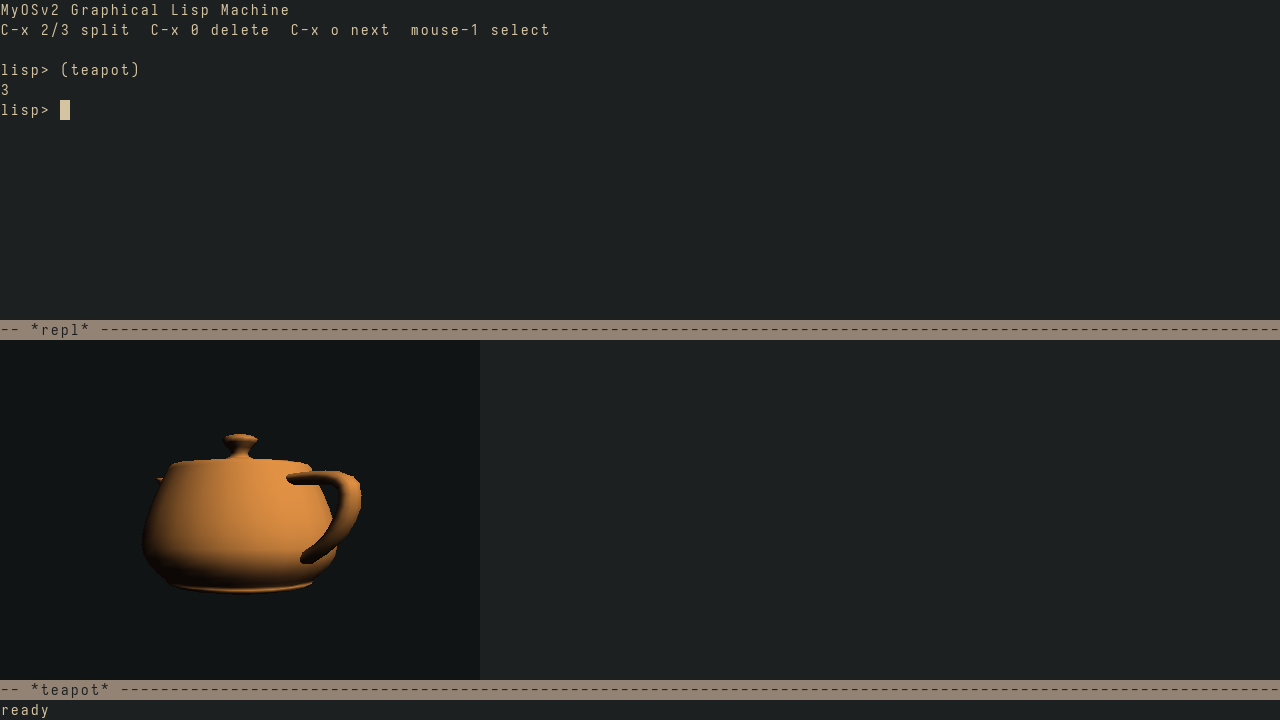
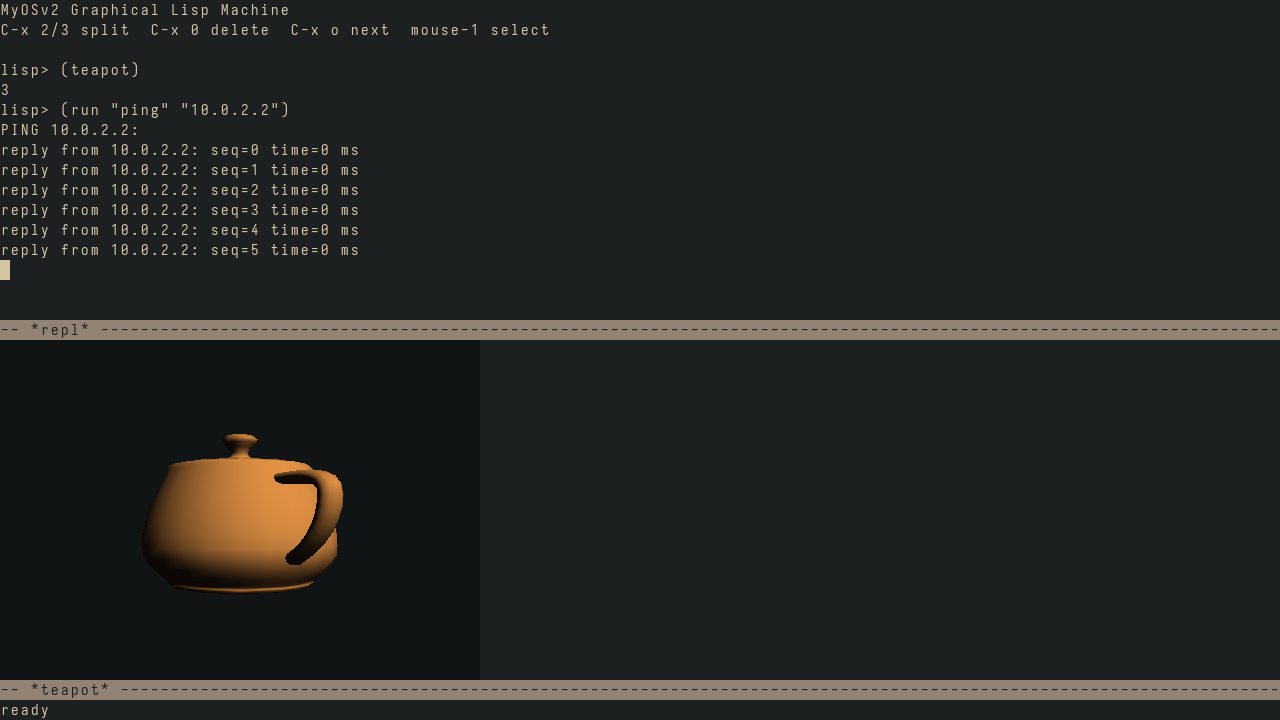
docs(readme): teapot screenshot showing ping streaming while the pot spins
The image now demonstrates the whole Phase 26 story in one frame: TinyGL
rendering at 20fps in a surface buffer WHILE a forked ping streams its
replies into the REPL window above -- the multitasking the stream-thunk
redisplay fix and process groups bought.

Changed region(s): [[0.0, 0.1222, 0.2812, 0.3972], [0.2188, 0.6417, 0.2812, 0.7944]]

diff --git a/README.md b/README.md
@@ -180,7 +180,7 @@ photograph itself: `(screenshot "/shot.ppm")`.
   stream output, and C-c interrupts a whole job -- the kernel grew Unix
   **process groups** (`setpgid`, `kill -pgid`) so the frame's Ctrl-C
   reaches the program doing the work, not just the wrapper that forked it.
-  ![the Utah teapot in a buffer](docs/images/phase-26-teapot.png)
+  ![the Utah teapot spinning in a buffer while ping streams into the REPL](docs/images/phase-26-teapot.png)
 - **M-x + describe-function, vertico-style** — the echo area grows into a
   live-narrowing command palette over the image's own symbol table; `C-h f`
   shows a function's *living source* in a `*Help*` window, ready to redefine.